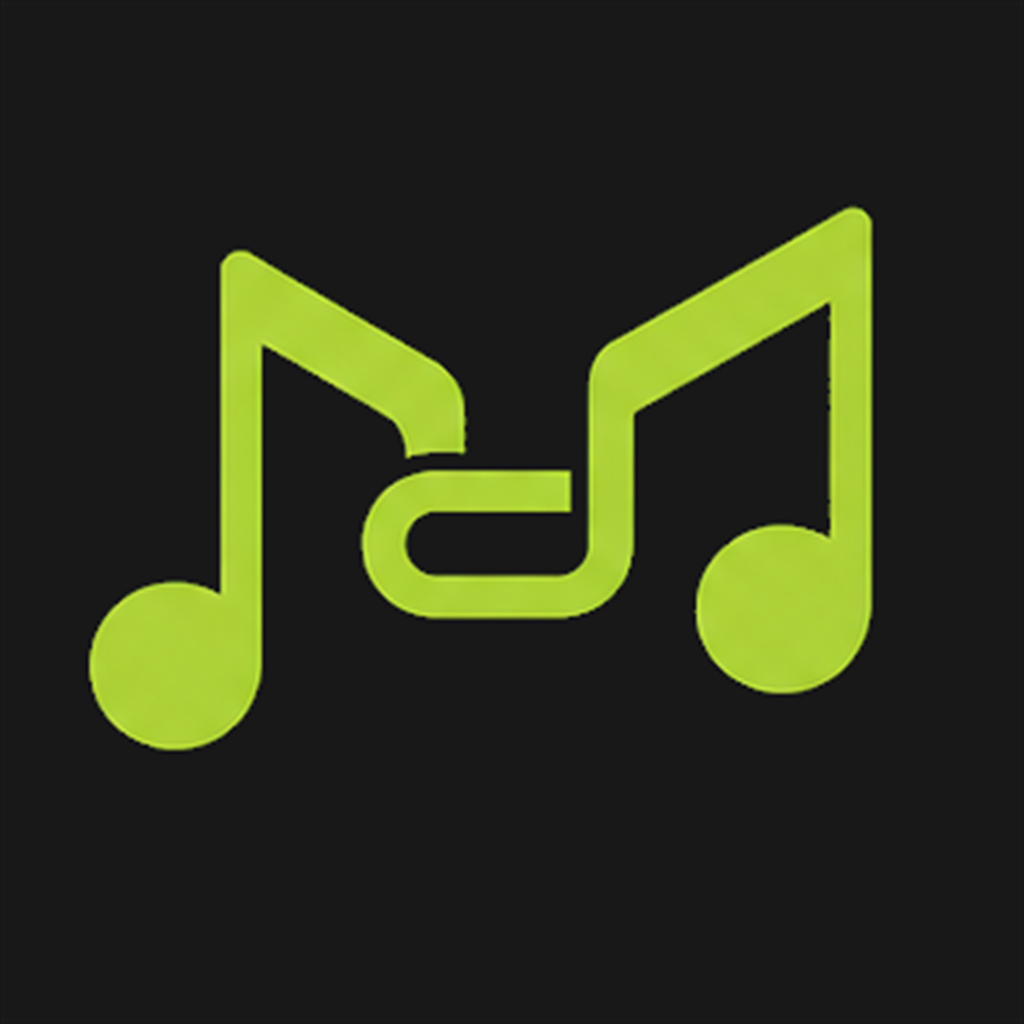
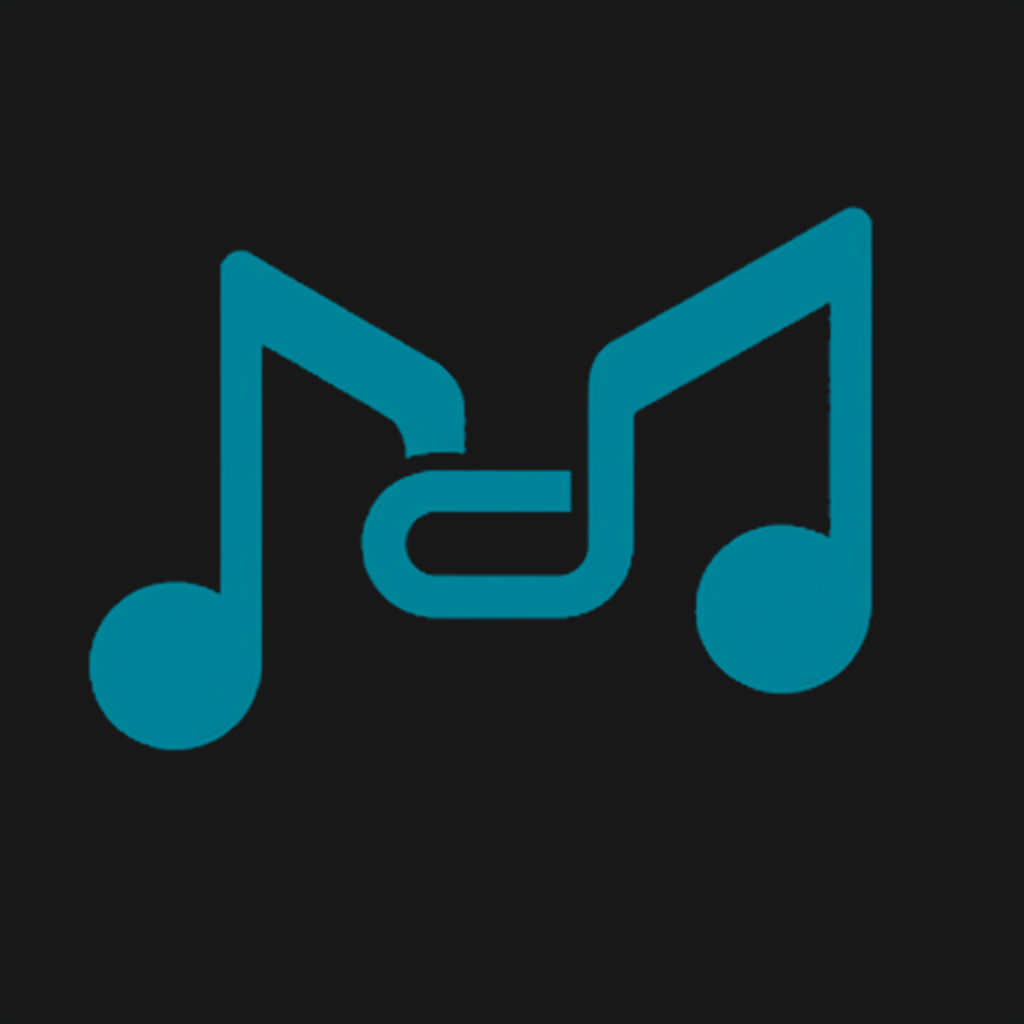
feat: 아이콘을 청록으로 통일하고 형광펜·지우개를 새로 그린다
앱 아이콘은 다시 그리지 않았다. 원본 픽셀에서 색이 섞인 비율을 역산했다.

  픽셀 = 배경(24,24,24) + t x (연두(174,209,56) - 배경)

t 를 세 채널 최소제곱으로 풀면 각 픽셀이 얼마나 글리프인지 나온다. 그
t 를 그대로 두고 색만 바꿔 다시 합성했으므로, 모양이 비슷한 것이 아니라
같은 그림이다. 문턱값으로 자르지 않아 가장자리 반투명 픽셀 23,064개도
원본 그대로다.

안드로이드 5종, 웹 5종을 다시 만들었다. maskable 은 기존 규칙(그림이
가로의 60%)을 재서 그대로 따랐다 — 둥글게 잘려도 살아남아야 한다.

같은 방식으로 뽑은 글리프를 흰색+투명으로 저장해 첫 화면에서 쓴다.
코드에서 색을 정하므로 설치 아이콘과 첫 화면이 완전히 같은 모양이 된다.

형광펜과 지우개는 머티리얼에 알맞은 그림이 없었다. 지금까지 쓰던
highlight_rounded 는 전구고 auto_fix_normal_rounded 는 요술봉이라,
무슨 도구인지 그림만 봐서는 알 수 없었다. 피그마에서 새로 그렸다.

둘을 가르는 것은 결국 굵기와 길이였다.
  형광펜  16 x 6.4 (2.5:1)  가늘고 긴 펜, 깎인 촉, 굵은 자국
  지우개  14 x 10  (1.4:1)  두툼한 블록, 가운데 분할, 가는 연필선

기존 펜(Icons.edit_rounded)과 같은 45도 방향·채워진 형태로 맞췄다.

Changed region(s): [[0.0625, 0.1875, 0.875, 0.75]]

diff --git a/lib/screens/main_screen.dart b/lib/screens/main_screen.dart
@@ -3,6 +3,7 @@ import 'dart:async';
 import 'package:file_picker/file_picker.dart';
 import 'package:flutter/foundation.dart';
 import 'package:flutter/material.dart';
+import 'package:flutter_svg/flutter_svg.dart';
 import 'package:flutter/services.dart';
 import 'package:image_cropper/image_cropper.dart';
 import 'package:image_picker/image_picker.dart';
@@ -1296,7 +1297,7 @@ class _MainScreenState extends State<MainScreen> with WidgetsBindingObserver {
   /// 화면을 가로지르는 단추는 오히려 누르기 나쁘다.
   Widget _readable(Widget child) => Center(
         child: ConstrainedBox(
-          constraints: const BoxConstraints(maxWidth: 560),
+          constraints: const BoxConstraints(maxWidth: 640),
           child: child,
         ),
       );
@@ -1345,12 +1346,14 @@ class _MainScreenState extends State<MainScreen> with WidgetsBindingObserver {
         ),
         _ToolButton(
           icon: Icons.highlight_rounded,
+          asset: 'assets/icons/highlighter.svg',
           selected: _tool == DrawTool.highlighter,
           hasOptions: true,
           onTap: () => _onToolTap(DrawTool.highlighter),
         ),
         _ToolButton(
           icon: Icons.auto_fix_normal_rounded,
+          asset: 'assets/icons/eraser.svg',
           selected: _tool == DrawTool.eraser,
           hasOptions: true,
           onTap: () => _onToolTap(DrawTool.eraser),
@@ -1536,7 +1539,15 @@ class _MainScreenState extends State<MainScreen> with WidgetsBindingObserver {
 }
 
 class _ToolButton extends StatelessWidget {
+  /// 머티리얼 아이콘. [asset] 을 주면 그쪽이 쓰인다.
   final IconData icon;
+
+  /// 직접 그린 아이콘의 경로.
+  ///
+  /// 형광펜과 지우개는 머티리얼에 알맞은 그림이 없다. 지금까지 쓰던
+  /// highlight_rounded 는 전구고 auto_fix_normal_rounded 는 요술봉이라,
+  /// 무슨 도구인지 그림만 봐서는 알 수 없었다.
+  final String? asset;
   final bool selected;
   final VoidCallback onTap;
 
@@ -1550,6 +1561,7 @@ class _ToolButton extends StatelessWidget {
     required this.icon,
     required this.selected,
     required this.onTap,
+    this.asset,
     this.hasOptions = false,
     this.enabled = true,
   });
@@ -1577,7 +1589,15 @@ class _ToolButton extends StatelessWidget {
         child: Stack(
           alignment: Alignment.center,
           children: <Widget>[
-            Icon(icon, size: 18, color: tint),
+            if (asset != null)
+              SvgPicture.asset(
+                asset!,
+                width: 18,
+                height: 18,
+                colorFilter: ColorFilter.mode(tint, BlendMode.srcIn),
+              )
+            else
+              Icon(icon, size: 18, color: tint),
             // 고른 도구의 오른쪽 아래에 작은 표시를 둔다. 다시 누르면
             // 굵기를 정할 수 있다는 것을 알 방법이 달리 없다.
             if (selected && hasOptions)
